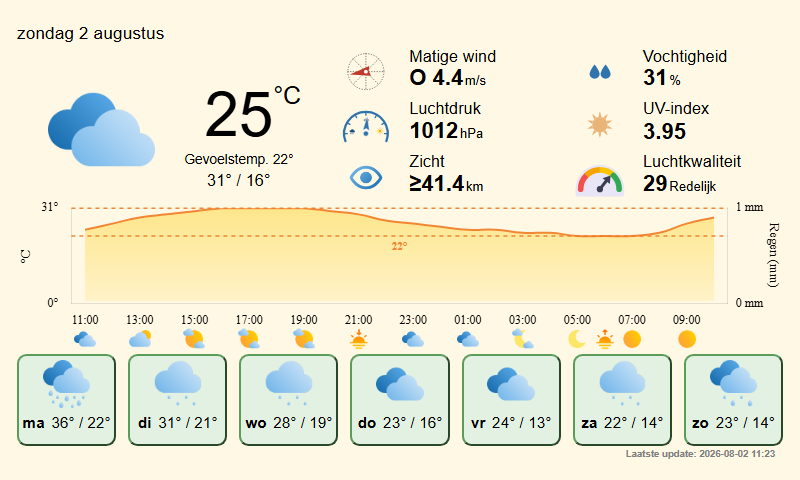
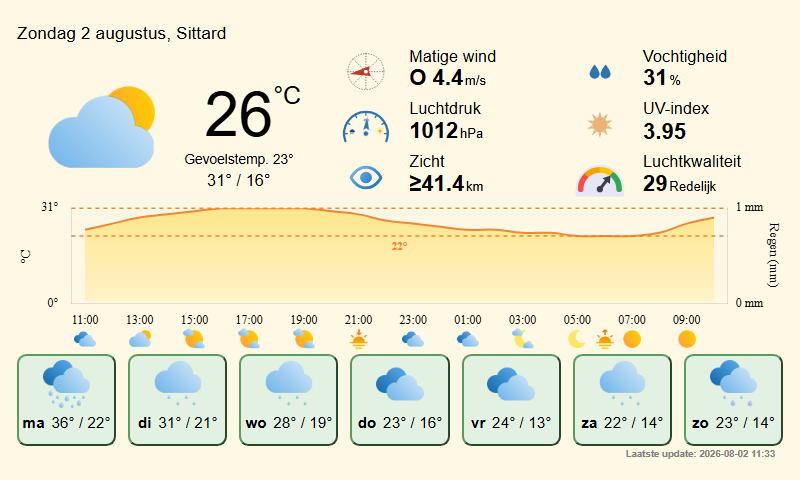
working v5

diff --git a/src/plugins/weather/render/weather.css b/src/plugins/weather/render/weather.css
@@ -42,6 +42,17 @@
   color: grey;
 }
 
+.nearest-location {
+  position: absolute;
+  bottom: 0.5dvh;
+  left: 0.5dvw;
+  font-size: min(2dvh, 2vw);
+  text-align: left;
+  font-weight: bold;
+  padding: 0.3dvh 0.5dvw;
+  color: grey;
+}
+
 .title {
   font-size: min(50cqh, 8cqi);
   text-align: center;
@@ -53,7 +64,7 @@
 }
 
 .current-date {
-  font-size: min(30cqh, 6cqi);
+  font-size: min(36cqh, 7cqi);
   text-align: left;
   align-content: end;
   width: 100%;

diff --git a/src/plugins/weather/render/weather.html b/src/plugins/weather/render/weather.html
@@ -27,7 +27,7 @@
     {% if title %}
     <div class="title">{{ title }}</div>
     {% endif %}
-    <div class="current-date">{{ current_date }}</div>
+    <div class="current-date">{{ current_date }}{% if nearest_location %}, {{ nearest_location }}{% endif %}</div>
   </div>
 
   <div class="today-container">

diff --git a/src/plugins/weather/weather.py b/src/plugins/weather/weather.py
@@ -17,7 +17,8 @@ DUTCH_MONTHS = [
 ]
 
 def format_date_nl(dt):
-    return f"{DUTCH_WEEKDAYS[dt.weekday()]} {dt.day} {DUTCH_MONTHS[dt.month - 1]}"
+    date_str = f"{DUTCH_WEEKDAYS[dt.weekday()]} {dt.day} {DUTCH_MONTHS[dt.month - 1]}"
+    return date_str[0].upper() + date_str[1:]
 
 def format_day_abbr_nl(dt):
     return DUTCH_WEEKDAYS_ABBR[dt.weekday()]
@@ -62,6 +63,7 @@ UNITS = {
 WEATHER_URL = "https://api.openweathermap.org/data/3.0/onecall?lat={lat}&lon={long}&units={units}&exclude=minutely&appid={api_key}"
 AIR_QUALITY_URL = "http://api.openweathermap.org/data/2.5/air_pollution?lat={lat}&lon={long}&appid={api_key}"
 GEOCODING_URL = "http://api.openweathermap.org/geo/1.0/reverse?lat={lat}&lon={long}&limit=1&appid={api_key}"
+NOMINATIM_REVERSE_URL = "https://nominatim.openstreetmap.org/reverse?lat={lat}&lon={long}&format=jsonv2&accept-language=nl&zoom=14"
 
 OPEN_METEO_FORECAST_URL = "https://api.open-meteo.com/v1/forecast?latitude={lat}&longitude={long}&hourly=weather_code,temperature_2m,precipitation,precipitation_probability,relative_humidity_2m,surface_pressure,visibility&daily=weathercode,temperature_2m_max,temperature_2m_min,sunrise,sunset&current=temperature,windspeed,winddirection,is_day,precipitation,weather_code,apparent_temperature&timezone=auto&models=best_match&forecast_days={forecast_days}"
 OPEN_METEO_AIR_QUALITY_URL = "https://air-quality-api.open-meteo.com/v1/air-quality?latitude={lat}&longitude={long}&hourly=european_aqi,uv_index,uv_index_clear_sky&timezone=auto"
@@ -135,6 +137,7 @@ class Weather(BasePlugin):
             dimensions = dimensions[::-1]
 
         template_params["plugin_settings"] = settings
+        template_params["nearest_location"] = self.get_nearest_location_name_nl(lat, long)
 
         # Add last refresh time
         now = datetime.now(tz)
@@ -841,6 +844,27 @@ class Weather(BasePlugin):
         location_str = f"{location_data.get('name')}, {location_data.get('state', location_data.get('country'))}"
 
         return location_str
+
+    def get_nearest_location_name_nl(self, lat, long):
+        # Free reverse geocoding (no API key required), Dutch place names via accept-language=nl.
+        try:
+            response = requests.get(
+                NOMINATIM_REVERSE_URL.format(lat=lat, long=long),
+                headers={"User-Agent": "InkyPi-WeatherPlugin"},
+                timeout=10
+            )
+            if not 200 <= response.status_code < 300:
+                logger.warning(f"Failed to get nearest location name: {response.content}")
+                return ""
+
+            address = response.json().get("address", {})
+            for key in ("city", "town", "village", "municipality", "hamlet", "suburb", "county"):
+                if address.get(key):
+                    return address[key]
+            return ""
+        except Exception as e:
+            logger.warning(f"Could not retrieve nearest location name: {str(e)}")
+            return ""
 
     def get_open_meteo_data(self, lat, long, units, forecast_days):
         unit_params = OPEN_METEO_UNIT_PARAMS[units]
